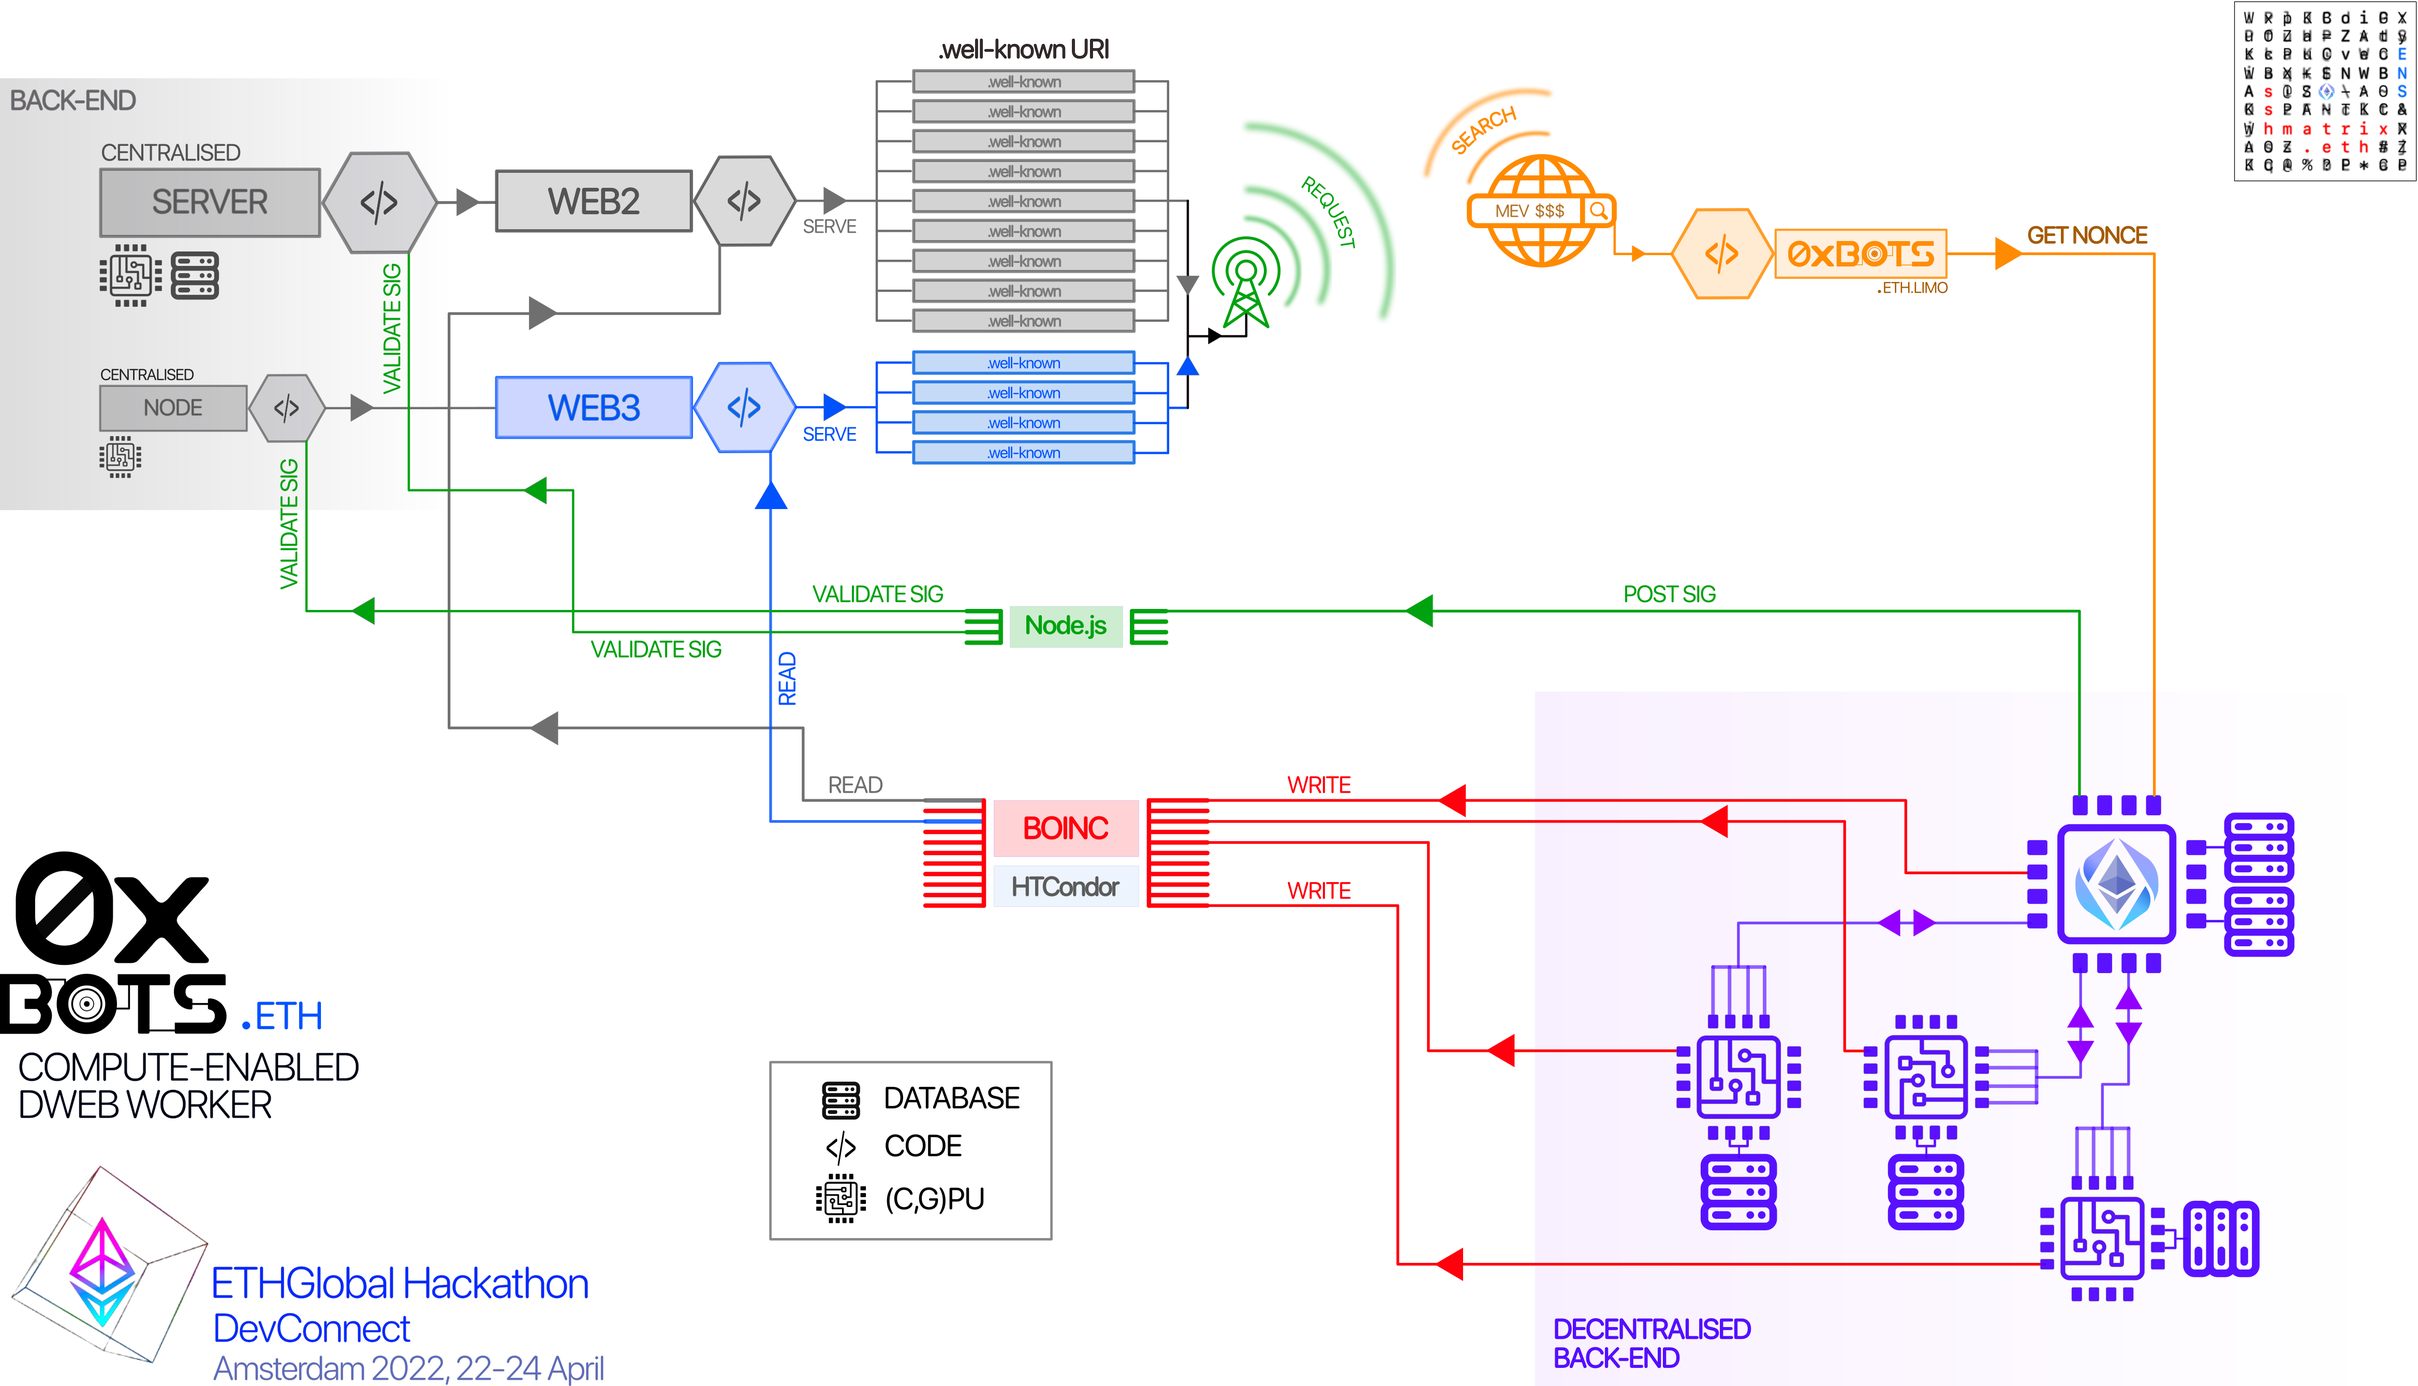
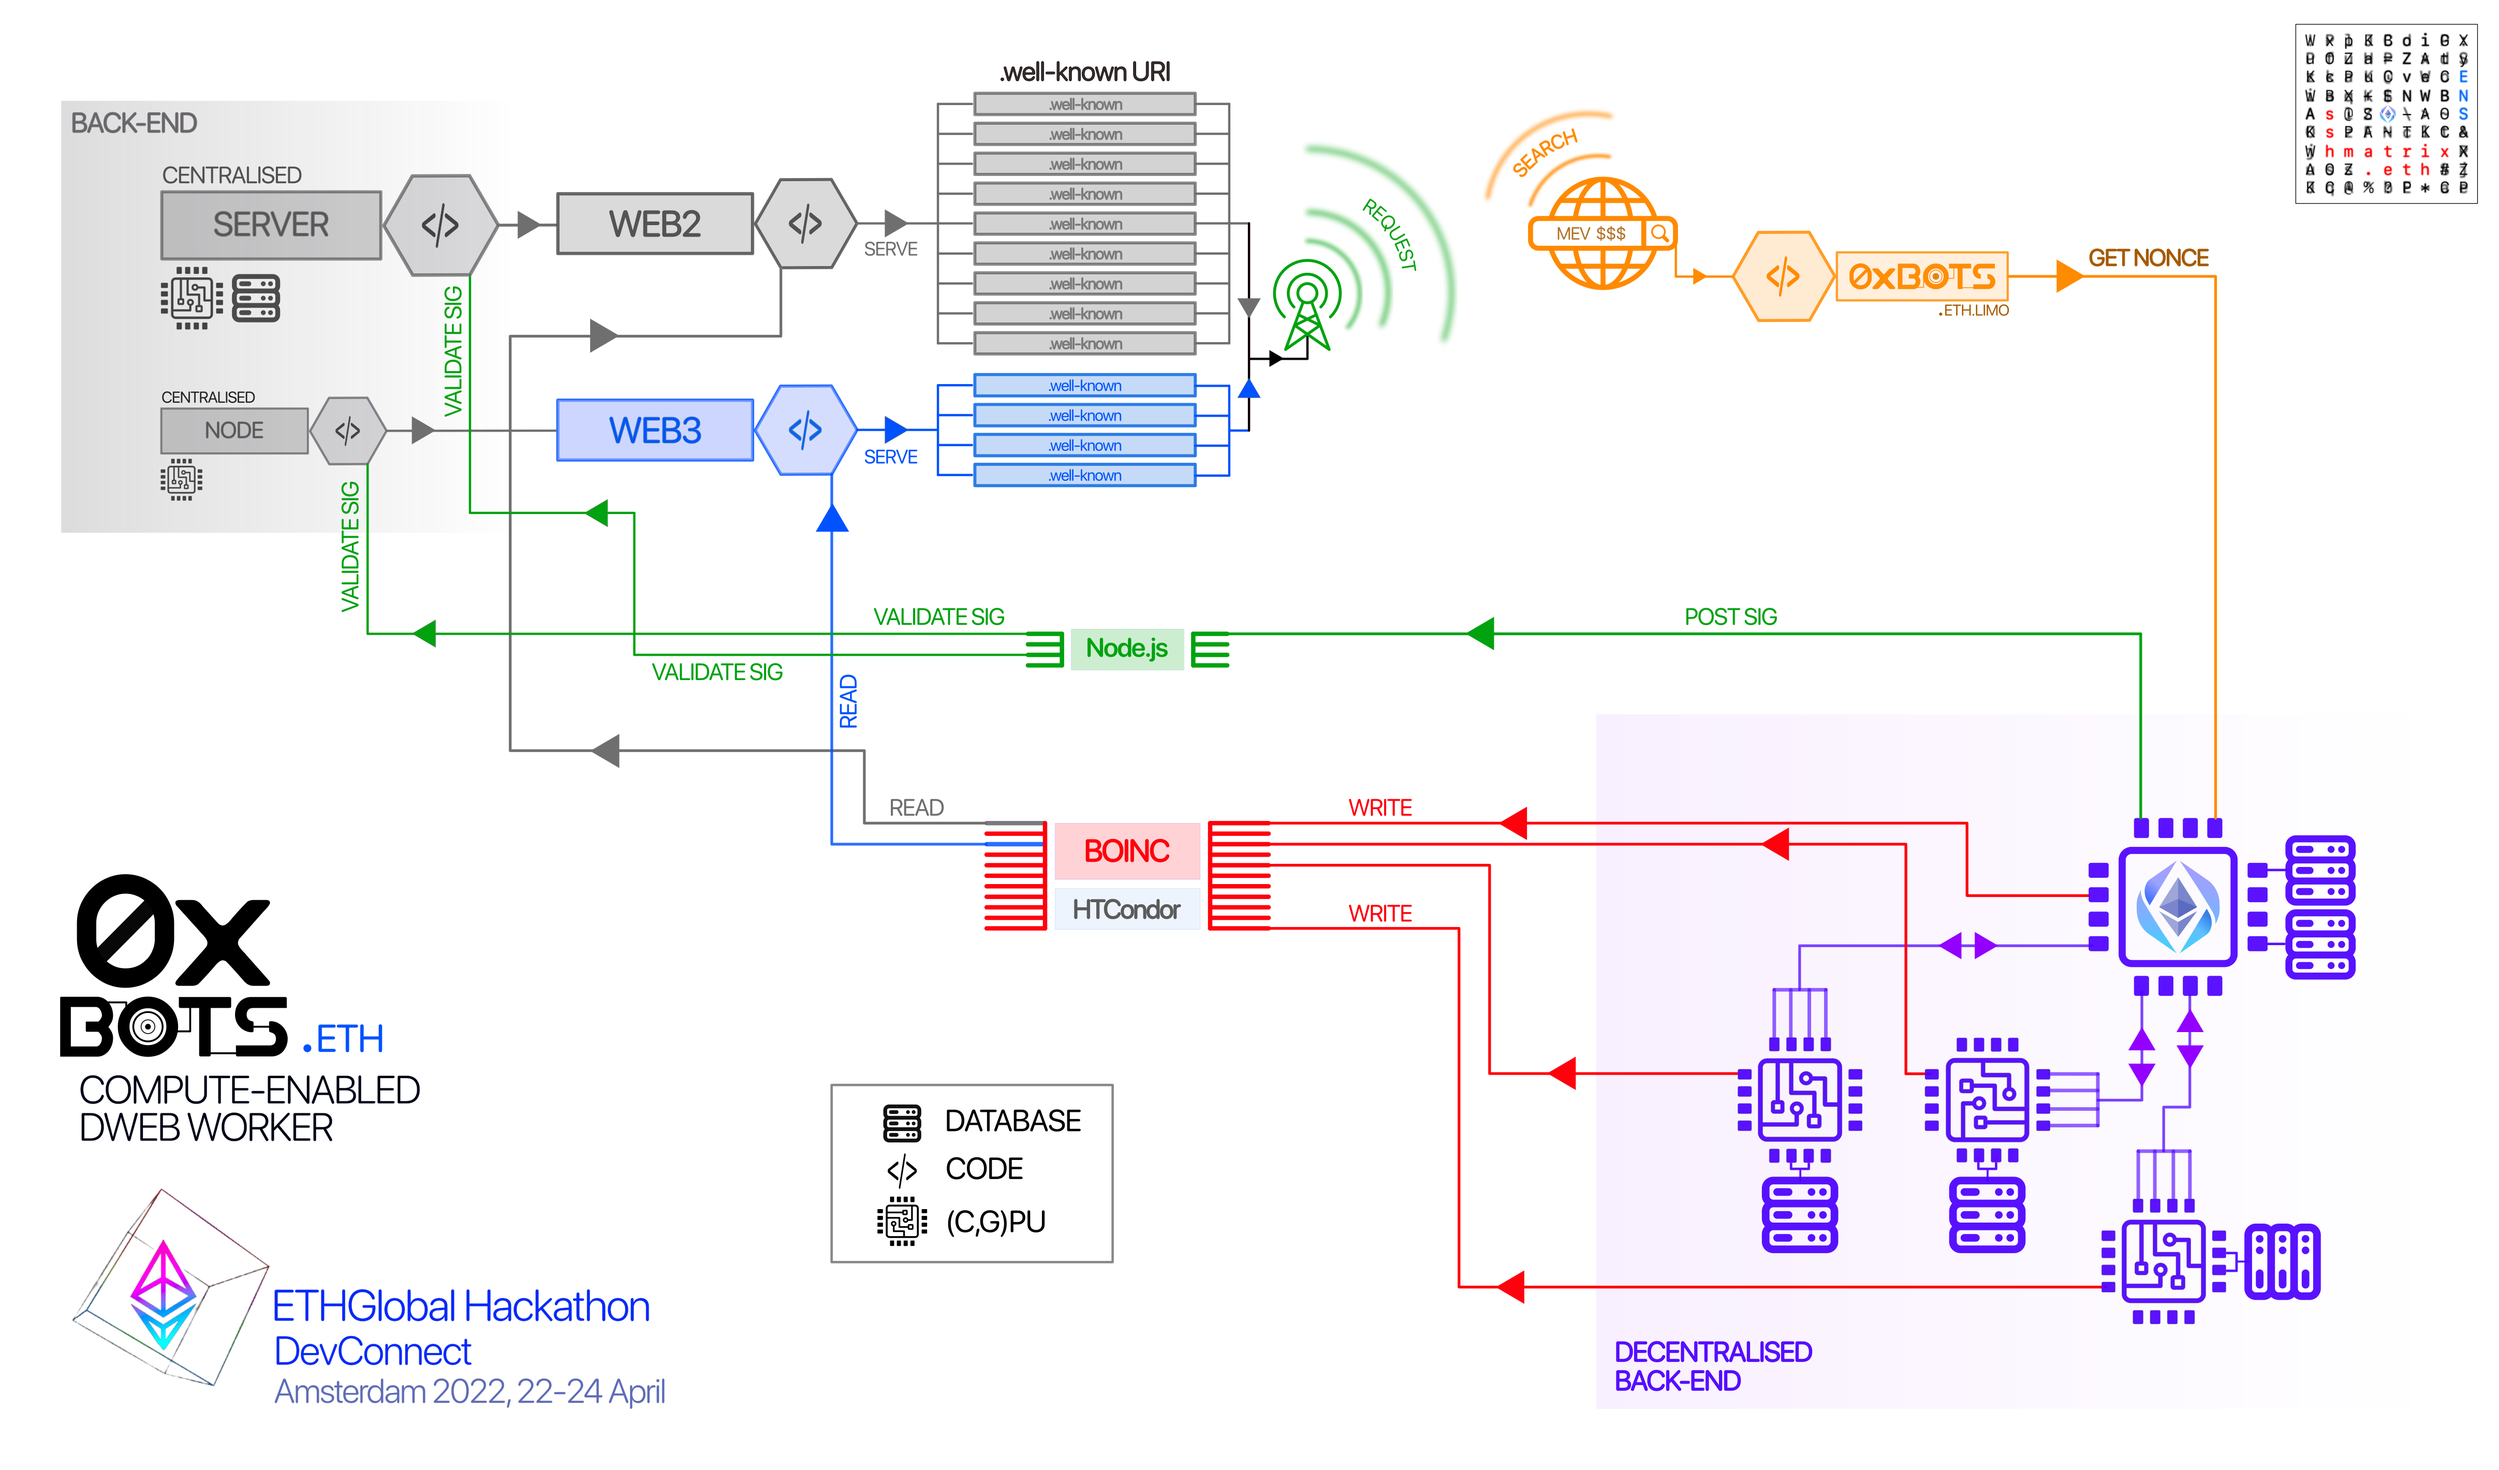
update README.md with schematic

diff --git a/README.md b/README.md
@@ -8,3 +8,6 @@ IPNS: [0xbots.eth](https://0xbots.eth.link)
 
 <img src="https://ipfs.io/ipfs/QmPAgTjSGvHC18F4rH1RUKWAsGJmviDpSxiSzbVfMXiwMh?filename=ETHGlobalHack.png" alt="drawing" width="720"/>
 
+### Schematic
+
+<img src="https://ipfs.io/ipfs/QmWTPTC5y8So4qiEpqESLV6EWop7atpvhB1pP31ubX7ygL?filename=Schematic.png" alt="drawing" width="720"/>
